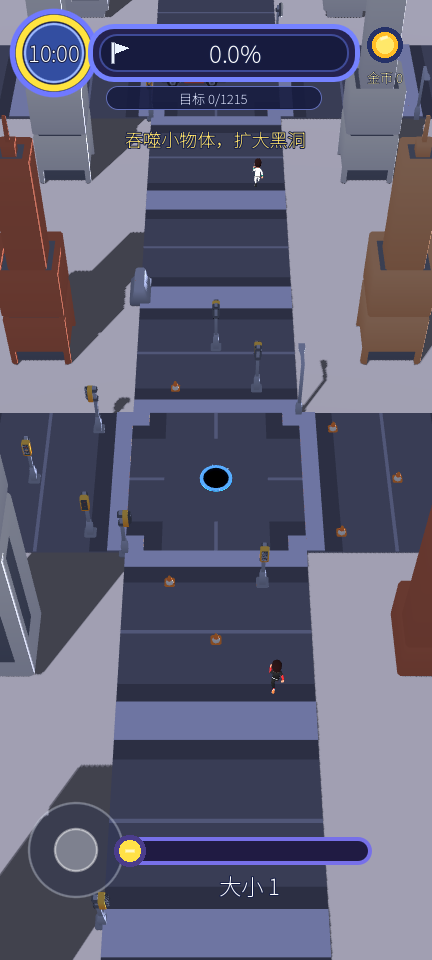
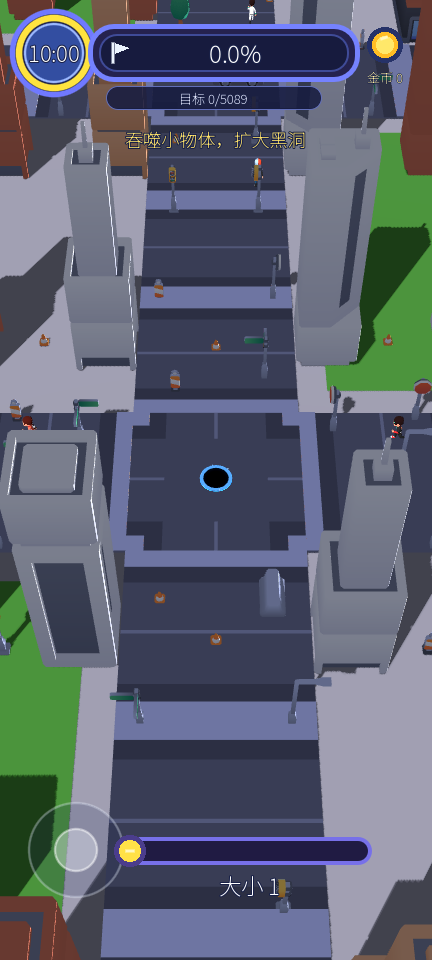
feat: improve growth speed and early object density

diff --git a/tools/acceptance.py b/tools/acceptance.py
@@ -19,7 +19,7 @@ ACCEPTANCE = ARTIFACTS / "acceptance"
 
 EXPECTED_HASHES = {
[6 lines of base64/hex data omitted]

diff --git a/docs/DEVELOPMENT.md b/docs/DEVELOPMENT.md
@@ -61,7 +61,7 @@ python3 -I tools/acceptance.py --verify-failure-exit
 
 - `InputController.handle_event()` 可直接注入鼠标、触摸、拖动和取消事件；`input_vector`、活动触摸 ID 和摇杆状态可断言。
 - 第二指不夺取活动触摸 ID；取消、暂停和结算必须清输入。
-- `FollowCamera.snapshot()` 提供投影、位置和观察范围。成长仅改变观察范围，不直接改变移动速度、资格或奖励。
+- `FollowCamera.snapshot()` 提供投影、位置和观察范围。玩家初始速度为 5.2，速度与镜头观察范围按同一半径曲线增长，满级为 17.212；吞噬资格和奖励仍由各自规则决定，投影切换不修改这些玩法状态。
 - `tests/integration/match_controls_test.gd` 用同一完整输入轨迹分别运行透视和正交，并比较最终逻辑快照。
 - `input_edge` 截图把玩家和摇杆放在地图角落；`occlusion` 检查大型不可吞建筑遮挡，`water_hole` 检查水面黑洞。HUD 的 `safe_rects` 不得超出 432×960。
 
